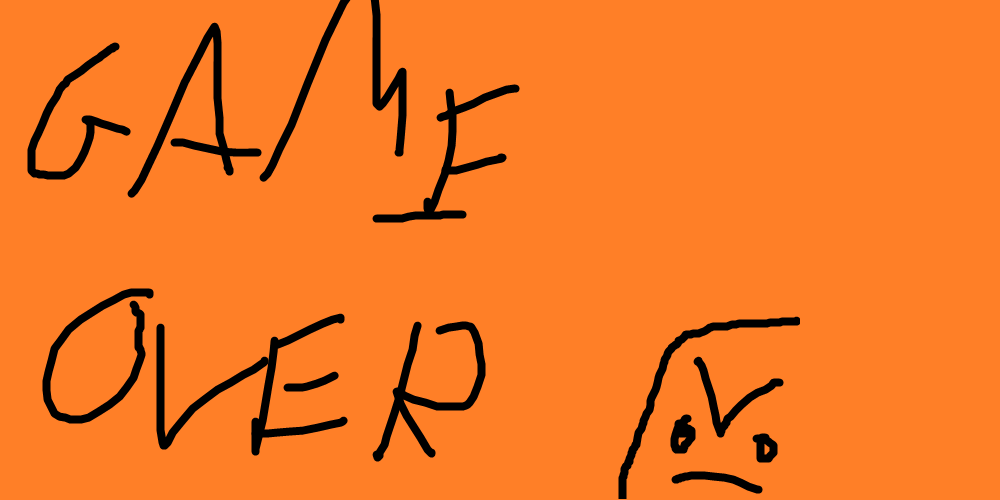
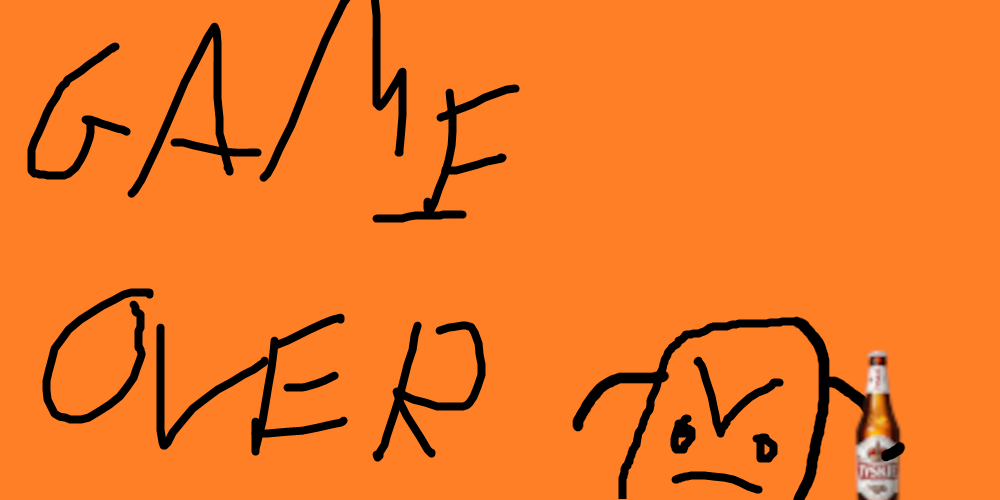
pause menu and hud

Changed region(s): [[0.775, 0.63, 0.93, 1.0], [0.558, 0.72, 0.682, 0.87]]

diff --git a/main.py b/main.py
@@ -173,17 +173,18 @@ def turretShoot():
 #health "bar" and game over screen
 def health():
     #initial image positions
-    heart1 = pygame.image.load('heart.png')
-    heart2 = pygame.image.load('heart.png')
-    heart3 = pygame.image.load('heart.png')
+    heart1 = pygame.image.load('tyskie.png')
+    heart2 = pygame.image.load('tyskie.png')
+    heart3 = pygame.image.load('tyskie.png')
     game_over = pygame.image.load('game_over.png')
+    hud = pygame.image.load('hud.png')
     heart1_rect = heart1.get_rect()
     heart2_rect = heart2.get_rect()
     heart3_rect = heart3.get_rect()
     game_over_rect=game_over.get_rect()
-    heart1_rect.center = (800, 20)
-    heart2_rect.center = (850, 20)
-    heart3_rect.center = (900, 20)
+    heart1_rect.center = (910, 100)
+    heart2_rect.center = (860, 100)
+    heart3_rect.center = (810, 100)
     game_over_rect.center = (-1000, -1000)
 
 #removing hearts when baloon makes it to the end with game over screen when all hearts are gone
@@ -195,12 +196,25 @@ def health():
         elif bloonQueue[i].pos[1] > 550 and bloonQueue[i].health > 0 and heart3_rect.center != (-900, -20):
             heart3_rect.center = (-900, -20)
             game_over_rect.center = (500, 250)
+    screen.blit(hud, (775, 0))
     screen.blit(heart1, heart1_rect)
     screen.blit(heart2, heart2_rect)
     screen.blit(heart3, heart3_rect)
     screen.blit(game_over, game_over_rect)
 
 
+def drawPause():
+    pygame.draw.rect(surface,(128,128,128,150),[0,0,1000,500])
+    screen.blit(surface,(0,0))
+
+#To gowno nie dziala jak wstawiam do petli for event
+# def checkPause(event,pause):
+#     if event.type == pygame.KEYDOWN:
+#         if event.key == pygame.K_ESCAPE:
+#             if pause:
+#                 pause = False
+#             else:
+#                 pause = True
 
 def checkQuit(event):
     #checks if the quit button has been pressed
@@ -220,6 +234,8 @@ turretList = []
 
 #setup
 screen = pygame.display.set_mode((screen_width, screen_height))
+#setup of this transparent screen which appears when pause is True
+surface = pygame.Surface((screen_width,screen_height),pygame.SRCALPHA)
 pygame.display.set_caption('Bloons TD 7')
 #pygame.display.set_icon(pygame.image.load("panda.png"))
 
@@ -249,7 +265,8 @@ queue = "212112121222"
 #starting game state
 state = "game"
 turType = 1
-
+#starting pause state
+pause = False
 
 createQueue()
 #print(bloonQueue[0].rect.h, bloonQueue[0].rect.w)
@@ -260,14 +277,26 @@ while True:
         #screen.blit(background, (0,0))
         screen.fill('chocolate')
         pygame.draw.lines(screen, 'black', False, path)
-        bloonMove()
-        drawTurrets(turType)
-        turretShoot()
+        #When pause = False, everything as regular
+        if not pause:
+            bloonMove()
+            drawTurrets(turType)
+            turretShoot()
         health()
         for event in pygame.event.get():
             createTurret(turType, event)
             checkQuit(event)
-
+            #KURWA nie dziala jak zrobilem funkcje checkPause(event,pause) wiec wrzucam tak
+            if event.type == pygame.KEYDOWN:
+                if event.key == pygame.K_ESCAPE:
+                    if pause:
+                        pause = False
+                    else:
+                        pause = True
+        #Pause screen
+        if pause == True:
+            drawPause()
+            screen.blit(pygame.image.load('pause.png'),(0,0))
     fpsClock.tick(fps)
     pygame.display.update()
     
